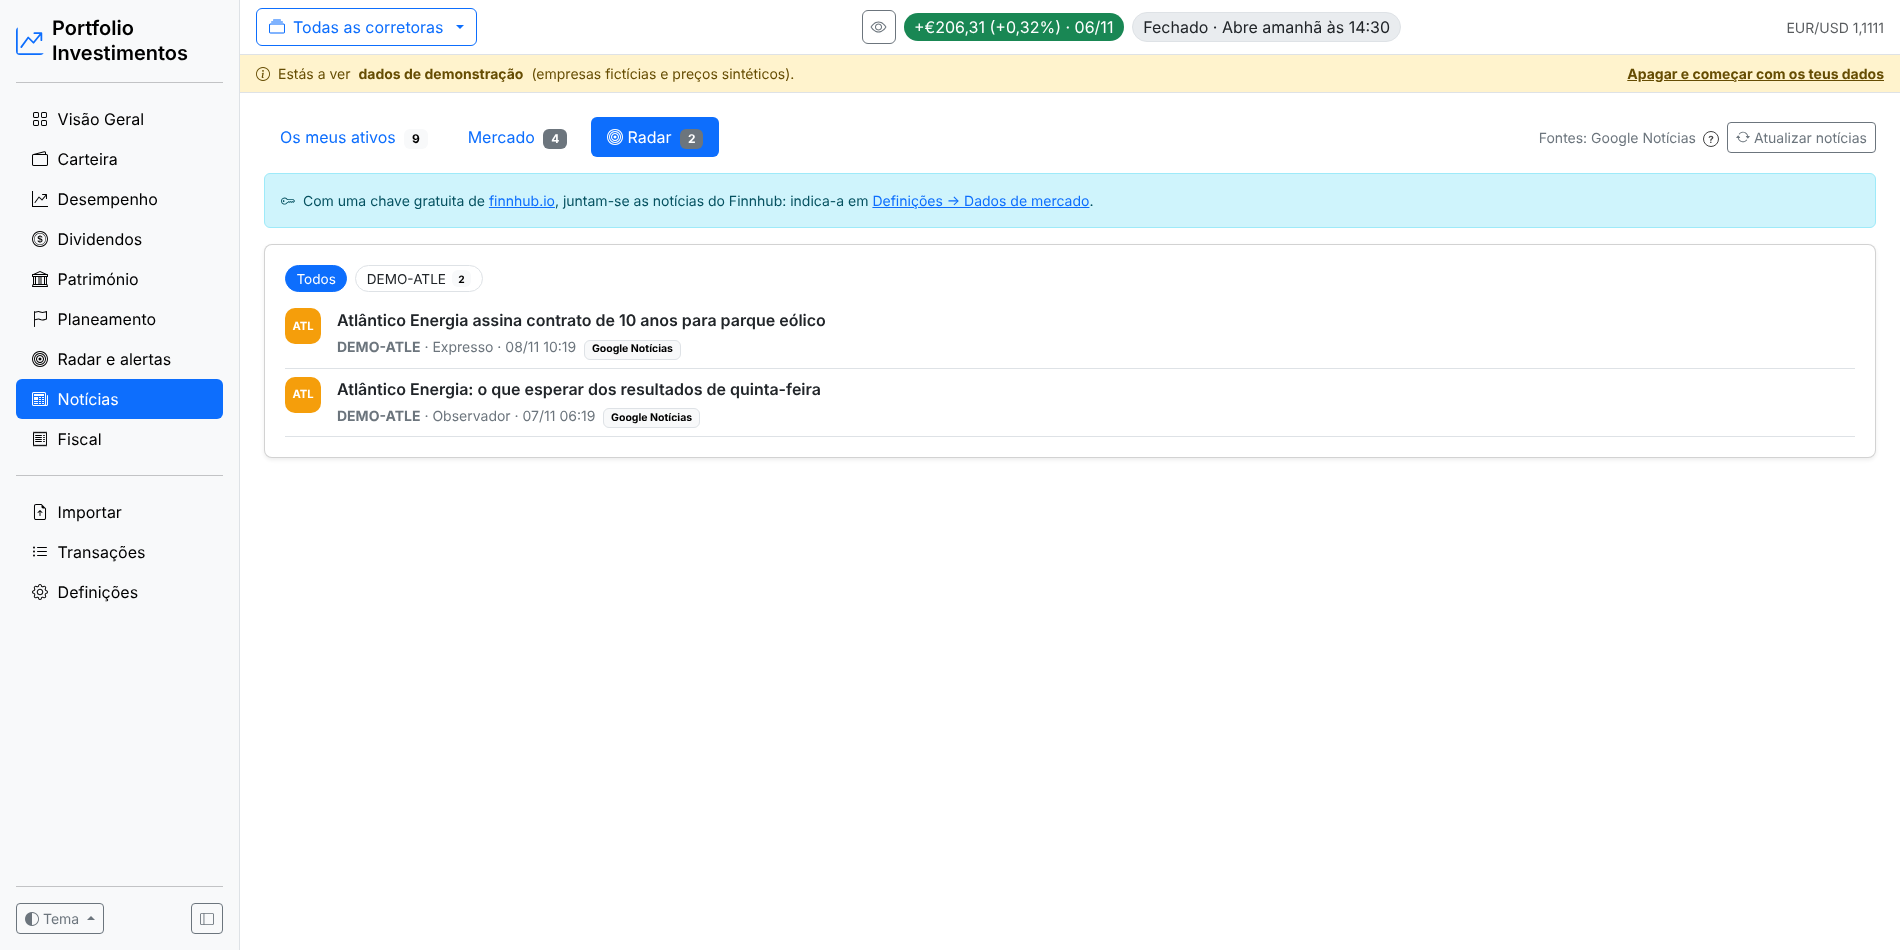
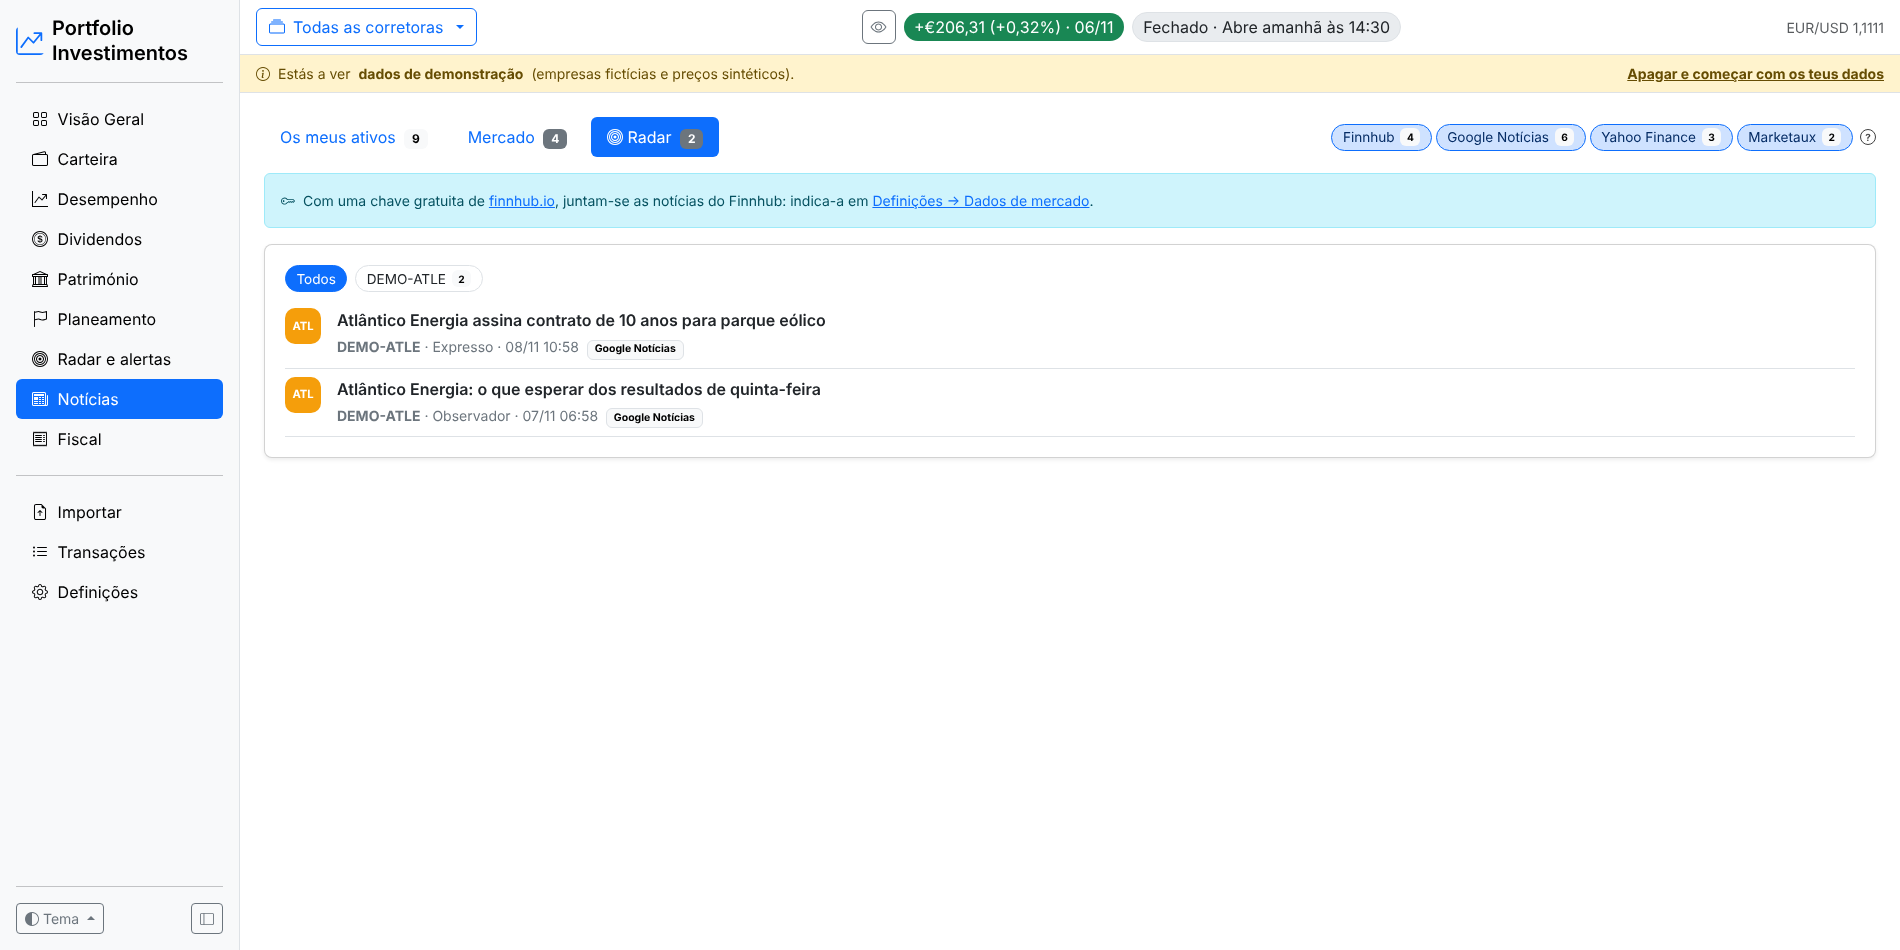
Atualizar as capturas de ecrã e o README
- Capturas novas (modo claro e escuro) de todas as páginas, com os dados de
  demonstração; as da página Notícias mostram os botões das quatro fontes
  (Finnhub, Google Notícias, Yahoo Finance e Marketaux) sem o texto «Fontes:» e
  sem o botão «Atualizar notícias».
- README: na linha das Notícias, o filtro do Google Notícias (só títulos que
  falam do ativo, sem os ETF).

Claude-Session: https://claude.ai/code/session_01AhMv5rzh4esVFWwNf2sje8

Changed region(s): [[0.6832, 0.1221, 0.9937, 0.1832], [0.3105, 0.4274, 0.3726, 0.4579], [0.3105, 0.3663, 0.3416, 0.3968]]

diff --git a/README.md b/README.md
@@ -193,7 +193,7 @@ O tema escolhe-se no botão **Tema**, no fundo da barra lateral: Claro, Escuro o
 | **Dividendos** | Recebido líquido/bruto e retenção na fonte, maior pagador, meses com dividendos, rendimento anualizado, crescimento anual. **Projeção** do ano e dos próximos 12 meses com os dividendos recebidos e, para posições recentes, os dividendos por ação do Yahoo, com a origem de cada valor. Dividendos por ano, decomposição do crescimento, **mapa mensal com a linha do próximo ano**, **datas ex-dividendo** (recebido, a receber, sem direito por ter comprado depois, previsto), yield on cost e histórico. |
 | **Património** | A carteira das corretoras mais os outros ativos e dívidas que indicas à mão (contas à ordem, depósitos a prazo, certificados, PPR, imóveis, outros, créditos), separados por camadas de liquidez (imediata, curto prazo, ilíquido) e nunca somados num único total: património líquido total e património líquido disponível (só imediata e curto prazo); meses de reserva (liquidez imediata ÷ despesas mensais do Planeamento); imóveis pelo valor líquido de dívida (crédito ligado ao imóvel) com desconto opcional de 5% ou 10% para os custos de venda; casa de habitação própria fora do FIRE; alocação por camada e categoria com e sem a casa própria; evolução mensal por camada; «De onde veio o crescimento», ano a ano (poupança investida, valorização do mercado, outros ativos financeiros, imóveis e amortização da dívida), com o ganho sem a poupança e a % de cada parte sobre a sua base (o mercado pelo TWR das corretoras); «Atualizar valores», um formulário mensal com todos os ativos e dívidas, com lembrete (também na Visão Geral) quando um valor passa um mês sem atualizar; aviso nos valores com mais de 90 dias; cada ativo pode somar-se à carteira no Planeamento (FIRE). Na Visão Geral, o património líquido total e o disponível aparecem por baixo do valor da carteira. |
 | **Planeamento** | Independência financeira (FIRE): o número FIRE «para sempre» (regra dos 4%), «para sempre, com a pensão» e «até aos N anos, com a pensão», já depois do IRS dos levantamentos; a parte já feita; a idade e o ano a que corresponde cada capital necessário (com uma nota quando «investir até aos» adia a data FIRE: o capital pedido desce só porque faltam menos anos até à pensão); a data em três cenários (3%, 5% e 7% reais ao ano), a investir até à data FIRE (ou até uma idade) e a levantar daí em diante; o gráfico da vida inteira com os números FIRE a tracejado e quando cada cenário chega a cada um (tabela e pontos no gráfico); nota quando a pensão cobre as despesas; os outros ativos marcados em Património somam-se à carteira; até quando dura o dinheiro em cada cenário; acompanhamento mês a mês. |
-| **Notícias** | As notícias dos últimos 7 dias dos ativos da carteira selecionada (ou de todas), com filtro por ativo, um separador «Mercado» e um separador «Radar», com as notícias dos ativos que segues em Radar e alertas. Fontes: Finnhub (com a tua chave gratuita de finnhub.io, em Definições ou na variável `FINNHUB_API_KEY`; no plano gratuito só empresas cotadas nos EUA e no Canadá, encontradas pelo ISIN), Google Notícias (sem chave, pelo nome do ativo, em português), Yahoo Finance (sem chave, pelo feed RSS do Yahoo por símbolo, de preferência o dos EUA) e Marketaux (com a tua chave gratuita de marketaux.com ou `MARKETAUX_API_KEY`; 100 pedidos por dia, por isso guardam-se 6 horas), sem repetir a mesma notícia. Obtêm-se ao abrir a página e guardam-se 1 hora. No topo da página, cada fonte é um botão que esconde ou mostra as notícias dela. Em Definições escolhes as fontes (as notícias de uma fonte desligada deixam de aparecer), vês quantas notícias há de cada uma e o que cada uma devolveu na última atualização, e atualizas todas (o botão mostra o progresso, ativo a ativo). A página não carrega imagens de outros sites. No PythonAnywhere gratuito, cada fonte só funciona se o site estiver na lista de sites permitidos. |
+| **Notícias** | As notícias dos últimos 7 dias dos ativos da carteira selecionada (ou de todas), com filtro por ativo, um separador «Mercado» e um separador «Radar», com as notícias dos ativos que segues em Radar e alertas. Fontes: Finnhub (com a tua chave gratuita de finnhub.io, em Definições ou na variável `FINNHUB_API_KEY`; no plano gratuito só empresas cotadas nos EUA e no Canadá, encontradas pelo ISIN), Google Notícias (sem chave, pelo nome do ativo, em português; só as notícias cujo título fala do ativo, e sem os ETF), Yahoo Finance (sem chave, pelo feed RSS do Yahoo por símbolo, de preferência o dos EUA) e Marketaux (com a tua chave gratuita de marketaux.com ou `MARKETAUX_API_KEY`; 100 pedidos por dia, por isso guardam-se 6 horas), sem repetir a mesma notícia. Obtêm-se ao abrir a página e guardam-se 1 hora. No topo da página, cada fonte é um botão que esconde ou mostra as notícias dela. Em Definições escolhes as fontes (as notícias de uma fonte desligada deixam de aparecer), vês quantas notícias há de cada uma e o que cada uma devolveu na última atualização, e atualizas todas (o botão mostra o progresso, ativo a ativo). A página não carrega imagens de outros sites. No PythonAnywhere gratuito, cada fonte só funciona se o site estiver na lista de sites permitidos. |
 | **Radar e alertas** | Alertas de preço (acima, abaixo, variação diária), os alertas da carteira criados na Carteira (pausar, reativar, apagar e o último disparo) e lista de observação com preço-alvo. |
 | **Fiscal** | Por ano: mais-valias pelo método FIFO resumidas por ativo (as linhas de cada lote abrem a pedido e vão todas no CSV), dividendos com o crédito de imposto estrangeiro limitado a cada dividendo, juros e estimativa de imposto a 28% (Portugal). |
 | **Importar** | Extratos da Trading 212 (CSV), XTB (XLSX), Trade Republic (CSV) e CSV genérico, com deduplicação (podes carregar o mesmo ficheiro várias vezes) e histórico de extratos. Antes de importar fica uma cópia automática da base de dados. |
